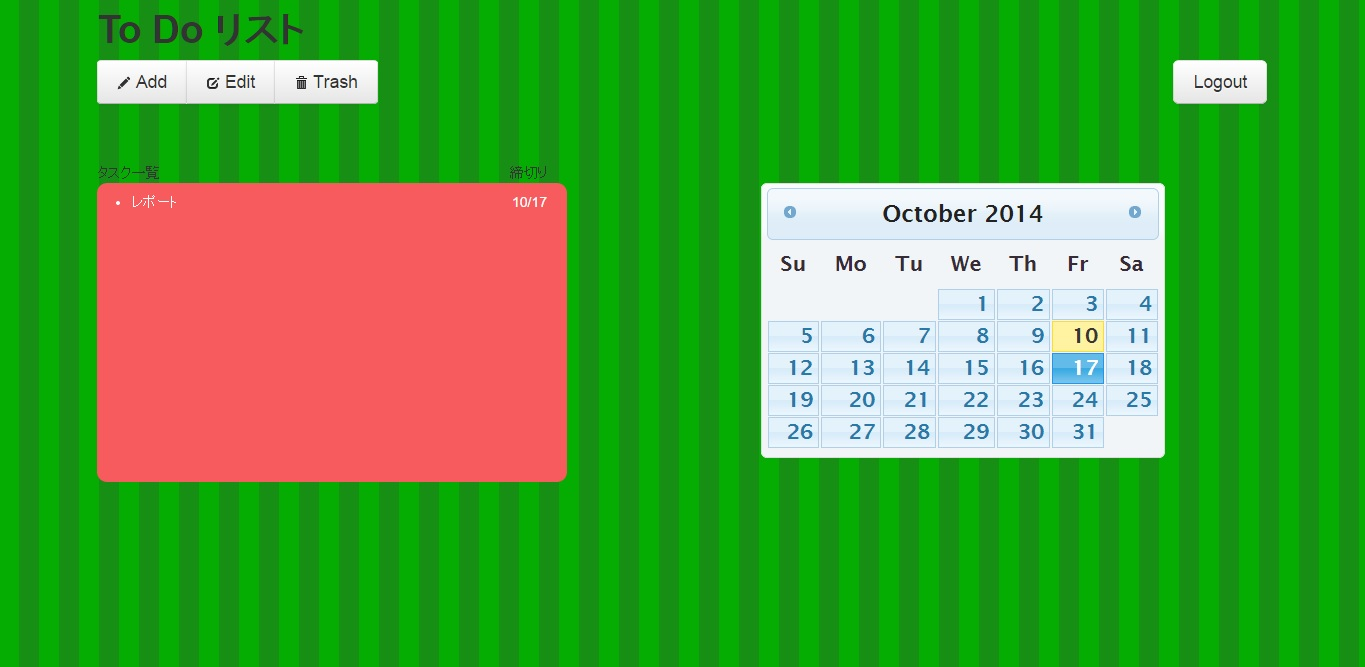
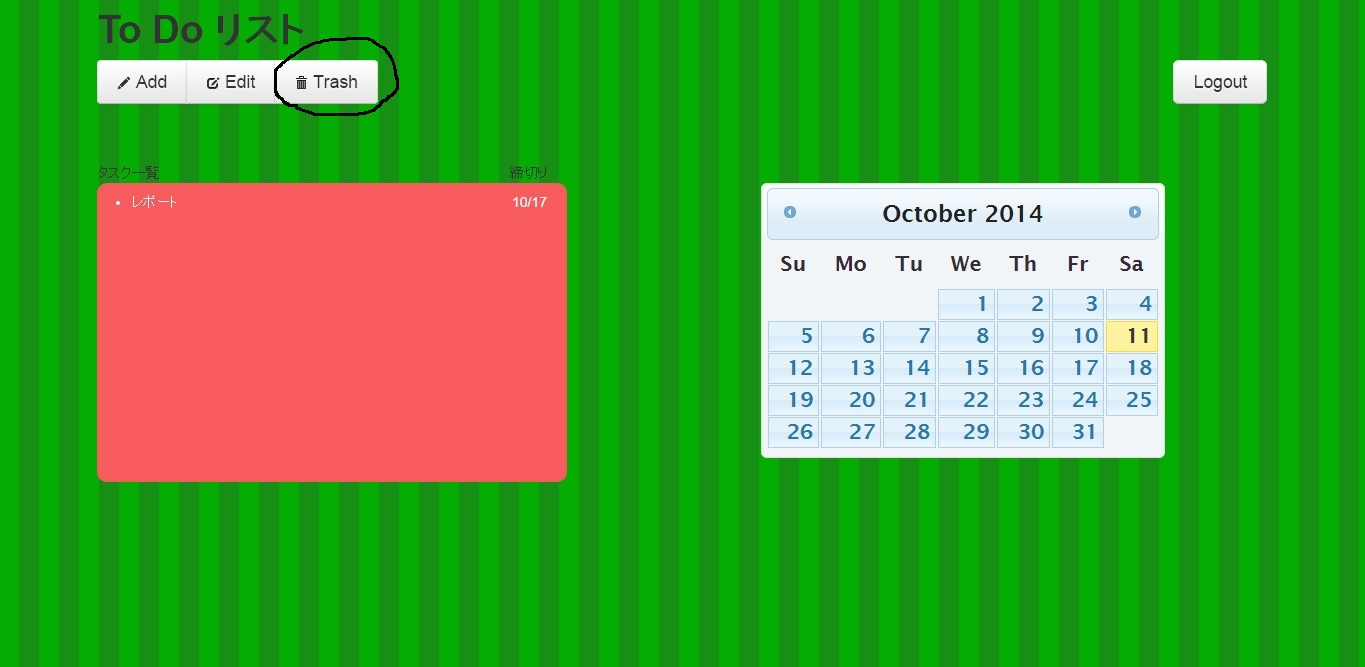
introduction3

diff --git a/business-casual/about.html b/business-casual/about.html
@@ -86,45 +86,37 @@
                     <img class="img-responsive img-border-left" src="img/Todologin.jpg" alt="">
                 </div>
                 	<div class="col-md-6">
-                    	<p></p>
-                    	<p>Lid est laborum dolo rumes fugats untras. Etharums ser quidem rerum facilis dolores nemis omnis fugats vitaes nemo minima rerums unsers sadips amets.</p>
-                    	<p>Sed ut perspiciatis unde omnis iste natus error sit voluptatem accusantium doloremque laudantium, totam rem aperiam, eaque ipsa quae ab illo inventore veritatis et quasi architecto beatae vitae dicta sunt explicabo.</p>
+                    	<p>まず最初にログインページの下の方にある新規ユーザ登録の部分に登録するユーザ名を入力します</p>
+                    	<p>そうするとユーザ登録が完了し、Todo管理アプリのページに飛びます</p>
+                    	<p>一度ユーザ名を登録してログインした場合次からログインする場合は上のユーザ名と書いてある部分に登録したユーザ名を入力すればまたログイン出来ます</p>
                 	</div>
                 		<div class="col-md-6">
                     <img class="img-responsive img-border-left" src="img/Todoindex.jpg" alt="">
                 		</div>
                 		<div class="col-md-6">
-                    	<p></p>
-                    	<p>Lid est laborum dolo rumes fugats untras. Etharums ser quidem rerum facilis dolores nemis omnis fugats vitaes nemo minima rerums unsers sadips amets.</p>
-                    	<p>Sed ut perspiciatis unde omnis iste natus error sit voluptatem accusantium doloremque laudantium, totam rem aperiam, eaque ipsa quae ab illo inventore veritatis et quasi architecto beatae vitae dicta sunt explicabo.</p>
+                    	<p>左上のボタンでタスクの追加(Add)・編集(Edit)・削除(Trash)が出来ます。そして追加・編集したタスクは左下の赤い部分に表示されます</p>
+                    	<p>右上にログアウトボタンがあり、その下にカレンダーが表示されます</p>
                 		</div>
                 			<div class="col-md-6">
                     <img class="img-responsive img-border-left" src="img/Todoaddtask.jpg" alt="">
                 			</div>
                 			<div class="col-md-6">
-                    		<p></p>
-                    		<p>Lid est laborum dolo rumes fugats untras. Etharums ser quidem rerum facilis dolores nemis omnis fugats vitaes nemo minima rerums unsers sadips amets.</p>
-                    		<p>Sed ut perspiciatis unde omnis iste natus error sit voluptatem accusantium doloremque laudantium, totam rem aperiam, eaque ipsa quae ab illo inventore veritatis et quasi architecto beatae vitae dicta sunt explicabo.</p>
+                    		<p>左上のAddボタンをクリックするとタスクを入力する部分とそのタスクの期日を入力する部分が表示されます</p>
+                    		<p>タスクの期日はDateの横の入力部分をクリックするとカレンダーが表示されるのでカレンダーの設定したい日付をクリックすると期日の設定が出来ます</p>
+                    		<p>タスクと期日の入力が終わったら右下のSave taskをクリックすればタスクが追加されます</p>
                 			</div>
                 				<img class="img-responsive img-border-left" src="img/Todoedittask.jpg" alt="">
                 				</div>
                 				<div class="col-md-6">
-                    			<p></p>
-                    			<p>Lid est laborum dolo rumes fugats untras. Etharums ser quidem rerum facilis dolores nemis omnis fugats vitaes nemo minima rerums unsers sadips amets.</p>
-                    			<p>Sed ut perspiciatis unde omnis iste natus error sit voluptatem accusantium doloremque laudantium, totam rem aperiam, eaque ipsa quae ab illo inventore veritatis et quasi architecto beatae vitae dicta sunt explicabo.</p>
+                    			<p>タスク一覧内の編集したいタスクをクリックし、左上のEditボタンをクリックすると編集したいタスクとそのタスクの期日が編集する部分が表示されます</p>
+                    			<p>この画面で追加の時のようにタスクを編集し、期日を設定した後に右下のedit taskをクリックするとタスクの編集が出来ます</p>
                 				</div>
-                					<div class="col-md-6">
-                    				<p></p>
-                    				<p>Lid est laborum dolo rumes fugats untras. Etharums ser quidem rerum facilis dolores nemis omnis fugats vitaes nemo minima rerums unsers sadips amets.</p>
-                    				<p>Sed ut perspiciatis unde omnis iste natus error sit voluptatem accusantium doloremque laudantium, totam rem aperiam, eaque ipsa quae ab illo inventore veritatis et quasi architecto beatae vitae dicta sunt explicabo.</p>
-                					</div>
-                					<img class="img-responsive img-border-left" src="img/Todoedittask.jpg" alt="">
+                					<img class="img-responsive img-border-left" src="img/Todotrashtask.jpg" alt="">
                 					</div>
                 					<div class="col-md-6">
-                    				<p></p>
-                    				<p>Lid est laborum dolo rumes fugats untras. Etharums ser quidem rerum facilis dolores nemis omnis fugats vitaes nemo minima rerums unsers sadips amets.</p>
-                    				<p>Sed ut perspiciatis unde omnis iste natus error sit voluptatem accusantium doloremque laudantium, totam rem aperiam, eaque ipsa quae ab illo inventore veritatis et quasi architecto beatae vitae dicta sunt explicabo.</p>
+                    				<p>削除したいタスクをクリックして左上のTrashボタンをクリックすると、タスクを削除することが出来ます</p>
                 					</div>
+
                 <div class="clearfix"></div>
             </div>
         </div>

diff --git a/business-casual/index.html b/business-casual/index.html
@@ -47,7 +47,7 @@
                     <span class="icon-bar"></span>
                 </button>
                 <!-- navbar-brand is hidden on larger screens, but visible when the menu is collapsed -->
-                <a class="navbar-brand" href="index.html">Business Casual</a>
+                <a class="navbar-brand" href="index.html">XMLPro</a>
             </div>
             <!-- Collect the nav links, forms, and other content for toggling -->
             <div class="collapse navbar-collapse" id="bs-example-navbar-collapse-1">
